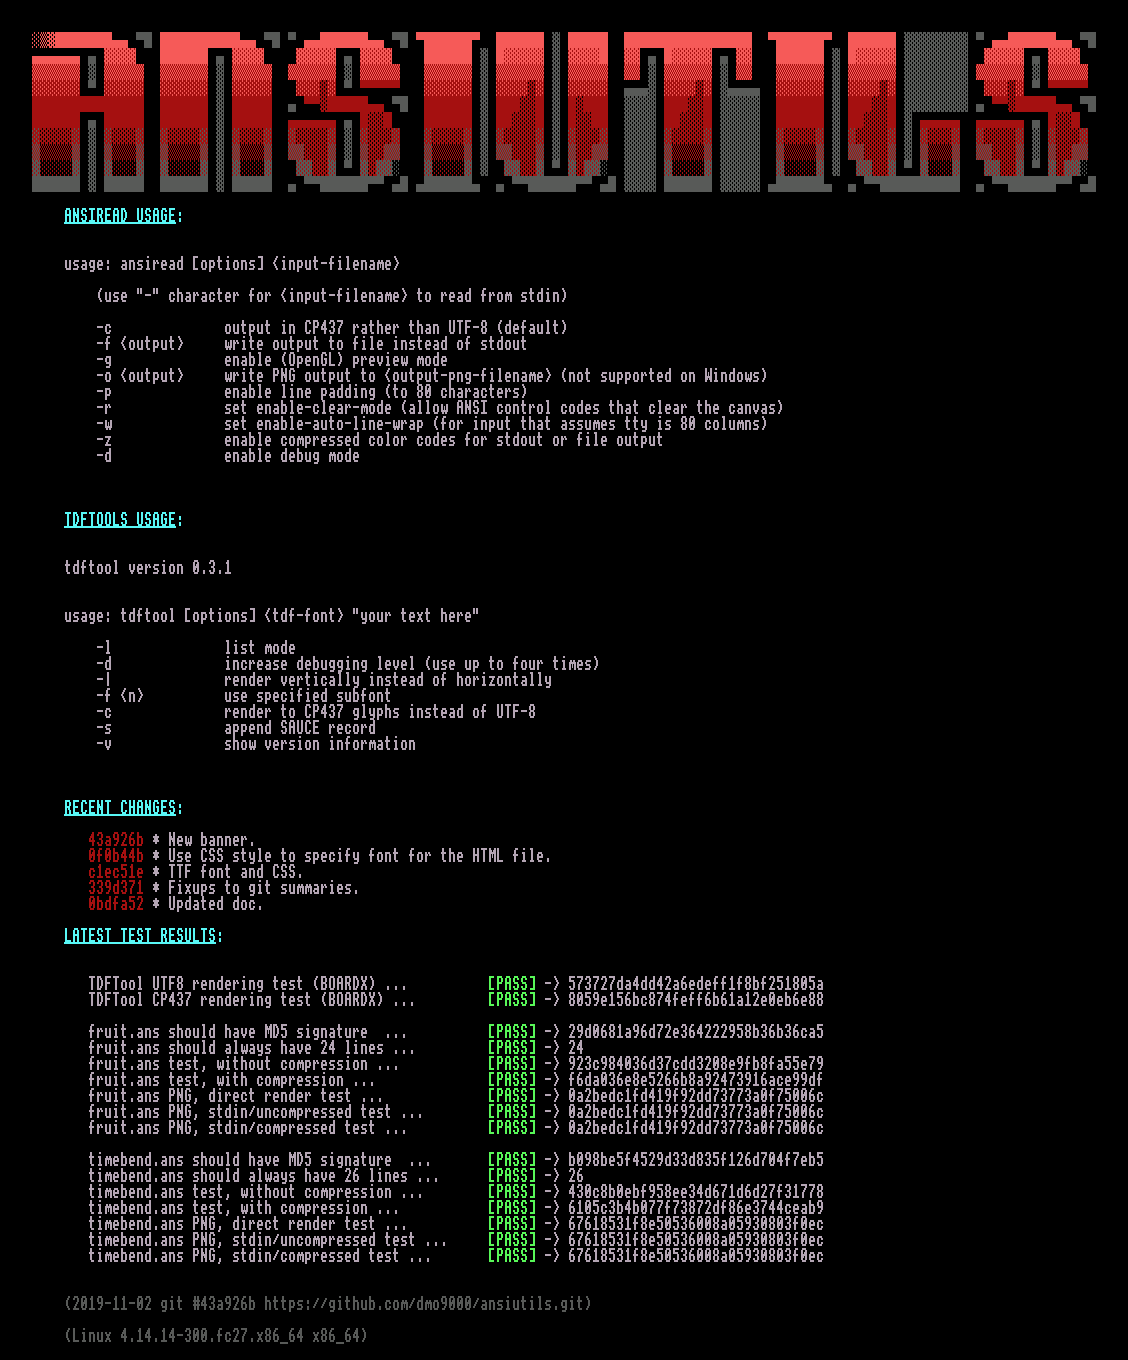
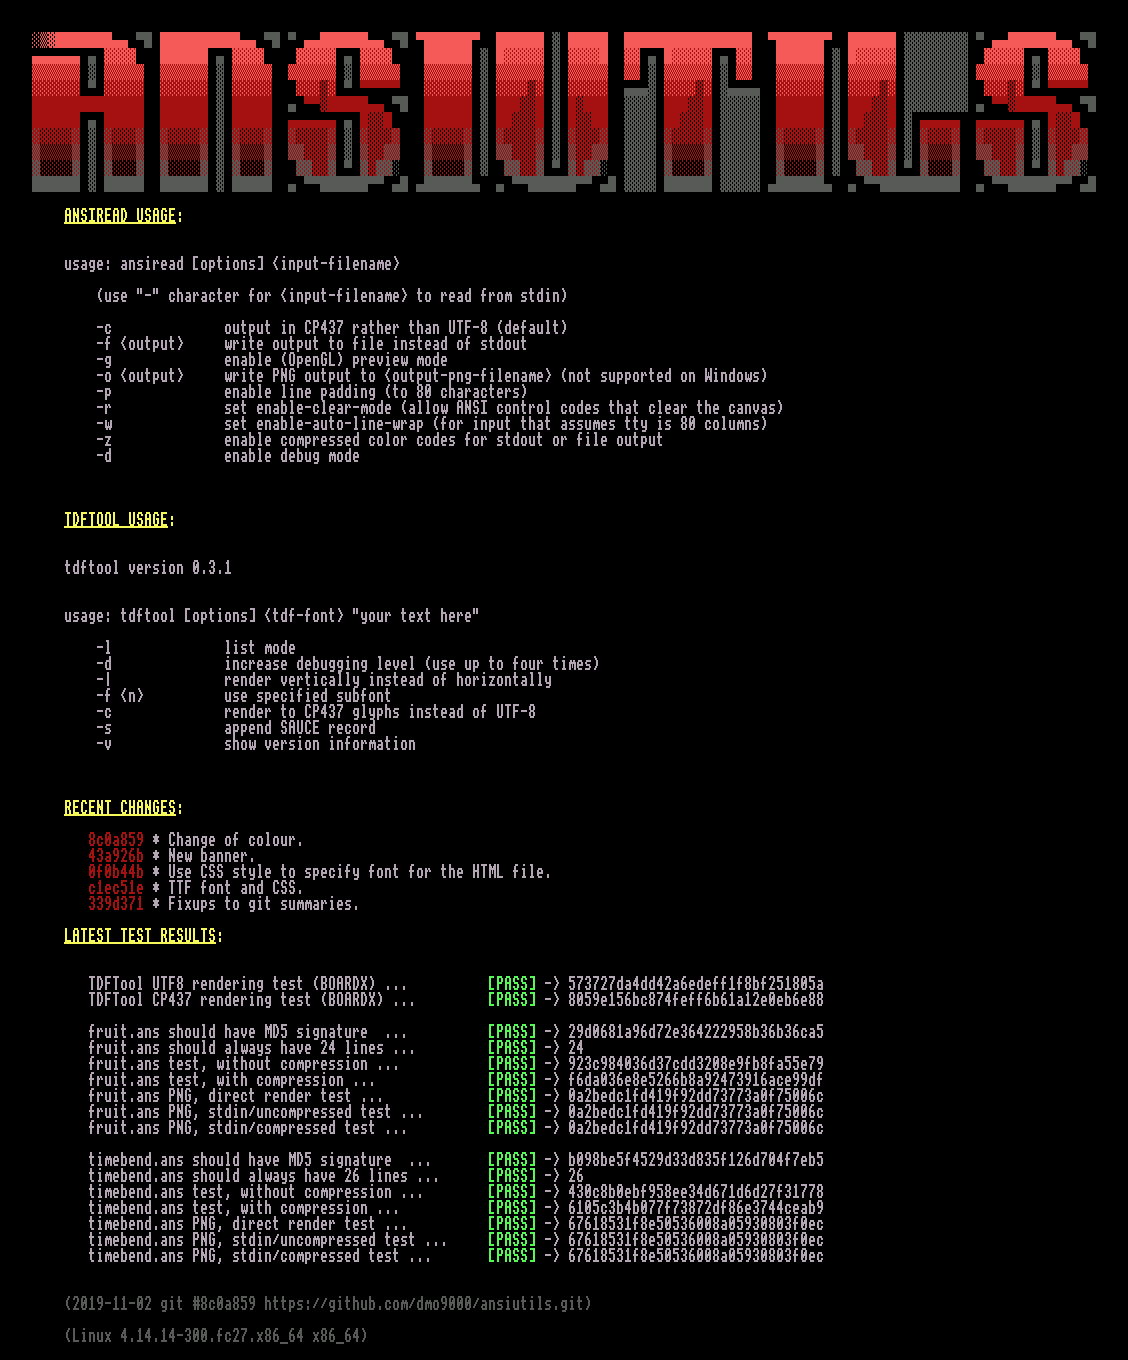
I think it pops now.

Changed region(s): [[0.0621, 0.5868, 0.4965, 0.7103], [0.0621, 0.3706, 0.1551, 0.4015], [0.0621, 0.1544, 0.1551, 0.1853]]

diff --git a/ansiutils.html b/ansiutils.html
@@ -22,7 +22,7 @@
     <span style="color:dimgray;background-color:red;"></span><span style="font-weight:bold;color:dimgray;background-color:red;">▓</span><span style="font-weight:bold;color:red;background-color:black;"></span><span style="color:red;background-color:black;">░░░░</span><span style="color:dimgray;background-color:red;"></span><span style="font-weight:bold;color:dimgray;background-color:red;">▓</span><span style="font-weight:bold;color:red;background-color:black;"></span><span style="color:red;background-color:black;"> </span><span style="color:dimgray;background-color:black;"></span><span style="font-weight:bold;color:dimgray;background-color:black;">▓</span><span style="font-weight:bold;color:red;background-color:black;"></span><span style="color:red;background-color:black;"> </span><span style="color:dimgray;background-color:red;"></span><span style="font-weight:bold;color:dimgray;background-color:red;">▓</span><span style="font-weight:bold;color:red;background-color:black;"></span><span style="color:red;background-color:black;">░░░</span><span style="color:dimgray;background-color:red;"></span><span style="font-weight:bold;color:dimgray;background-color:red;">▓</span><span style="font-weight:bold;color:white;background-color:black;"></span><span style="color:white;background-color:black;">  </span><span style="color:dimgray;background-color:red;"></span><span style="font-weight:bold;color:dimgray;background-color:red;">▓</span><span style="font-weight:bold;color:red;background-color:black;"></span><span style="color:red;background-color:black;">░░░░</span><span style="color:dimgray;background-color:red;"></span><span style="font-weight:bold;color:dimgray;background-color:red;">▓</span><span style="font-weight:bold;color:red;background-color:black;"></span><span style="color:red;background-color:black;"> </span><span style="color:dimgray;background-color:black;"></span><span style="font-weight:bold;color:dimgray;background-color:black;">▓</span><span style="font-weight:bold;color:red;background-color:black;"></span><span style="color:red;background-color:black;"> </span><span style="color:dimgray;background-color:red;"></span><span style="font-weight:bold;color:dimgray;background-color:red;">▓</span><span style="font-weight:bold;color:red;background-color:black;"></span><span style="color:red;background-color:black;">░░░</span><span style="color:dimgray;background-color:red;"></span><span style="font-weight:bold;color:dimgray;background-color:red;">▓</span><span style="font-weight:bold;color:white;background-color:black;"></span><span style="color:white;background-color:black;">  </span><span style="color:red;background-color:black;"> </span><span style="color:dimgray;background-color:red;"></span><span style="font-weight:bold;color:dimgray;background-color:red;">▓▓</span><span style="font-weight:bold;color:red;background-color:black;"></span><span style="color:red;background-color:black;">▓▓</span><span style="color:dimgray;background-color:red;"></span><span style="font-weight:bold;color:dimgray;background-color:red;">▓</span><span style="font-weight:bold;color:red;background-color:black;"></span><span style="color:red;background-color:black;"> </span><span style="color:dimgray;background-color:black;"></span><span style="font-weight:bold;color:dimgray;background-color:black;">▀</span><span style="font-weight:bold;color:red;background-color:black;"></span><span style="color:red;background-color:black;"> </span><span style="color:dimgray;background-color:red;"></span><span style="font-weight:bold;color:dimgray;background-color:red;">▓</span><span style="font-weight:bold;color:red;background-color:black;"></span><span style="color:red;background-color:black;">▓</span><span style="color:dimgray;background-color:red;"></span><span style="font-weight:bold;color:dimgray;background-color:red;">▓▓</span><span style="font-weight:bold;color:dimgray;background-color:black;">░</span><span style="font-weight:bold;color:white;background-color:black;"></span><span style="color:white;background-color:black;">  </span><span style="color:red;background-color:black;"> </span><span style="color:dimgray;background-color:red;"></span><span style="font-weight:bold;color:dimgray;background-color:red;">▓</span><span style="font-weight:bold;color:red;background-color:black;"></span><span style="color:red;background-color:black;">░░░░</span><span style="color:dimgray;background-color:red;"></span><span style="font-weight:bold;color:dimgray;background-color:red;">▓</span><span style="font-weight:bold;color:red;background-color:black;"></span><span style="color:red;background-color:black;"> </span><span style="color:dimgray;background-color:black;"></span><span style="font-weight:bold;color:dimgray;background-color:black;">▓</span><span style="font-weight:bold;color:white;background-color:black;"></span><span style="color:white;background-color:black;"> </span><span style="color:red;background-color:black;"> </span><span style="color:dimgray;background-color:red;"></span><span style="font-weight:bold;color:dimgray;background-color:red;">▓▓</span><span style="font-weight:bold;color:red;background-color:black;"></span><span style="color:red;background-color:black;">▓▓</span><span style="color:dimgray;background-color:red;"></span><span style="font-weight:bold;color:dimgray;background-color:red;">▓</span><span style="font-weight:bold;color:red;background-color:black;"></span><span style="color:red;background-color:black;"> </span><span style="color:dimgray;background-color:black;"></span><span style="font-weight:bold;color:dimgray;background-color:black;">▀</span><span style="font-weight:bold;color:red;background-color:black;"></span><span style="color:red;background-color:black;"> </span><span style="color:dimgray;background-color:red;"></span><span style="font-weight:bold;color:dimgray;background-color:red;">▓</span><span style="font-weight:bold;color:red;background-color:black;"></span><span style="color:red;background-color:black;">▓</span><span style="color:dimgray;background-color:red;"></span><span style="font-weight:bold;color:dimgray;background-color:red;">▓▓</span><span style="font-weight:bold;color:dimgray;background-color:black;">░</span><span style="font-weight:bold;color:white;background-color:black;"></span><span style="color:white;background-color:black;">  </span><span style="color:dimgray;background-color:black;"></span><span style="font-weight:bold;color:dimgray;background-color:black;">▓▓▓▓</span><span style="font-weight:bold;color:red;background-color:black;"></span><span style="color:red;background-color:black;"> </span><span style="color:dimgray;background-color:red;"></span><span style="font-weight:bold;color:dimgray;background-color:red;">▓</span><span style="font-weight:bold;color:red;background-color:black;"></span><span style="color:red;background-color:black;">░░░░</span><span style="color:dimgray;background-color:red;"></span><span style="font-weight:bold;color:dimgray;background-color:red;">▓</span><span style="font-weight:bold;color:red;background-color:black;"></span><span style="color:red;background-color:black;"> </span><span style="color:dimgray;background-color:black;"></span><span style="font-weight:bold;color:dimgray;background-color:black;">▓▓▓▓▓</span><span style="font-weight:bold;color:white;background-color:black;"></span><span style="color:white;background-color:black;"> </span><span style="color:red;background-color:black;"> </span><span style="color:dimgray;background-color:red;"></span><span style="font-weight:bold;color:dimgray;background-color:red;">▓</span><span style="font-weight:bold;color:red;background-color:black;"></span><span style="color:red;background-color:black;">░░░░</span><span style="color:dimgray;background-color:red;"></span><span style="font-weight:bold;color:dimgray;background-color:red;">▓</span><span style="font-weight:bold;color:red;background-color:black;"></span><span style="color:red;background-color:black;"> </span><span style="color:dimgray;background-color:black;"></span><span style="font-weight:bold;color:dimgray;background-color:black;">▓</span><span style="font-weight:bold;color:white;background-color:black;"></span><span style="color:white;background-color:black;"> </span><span style="color:red;background-color:black;"> </span><span style="color:dimgray;background-color:red;"></span><span style="font-weight:bold;color:dimgray;background-color:red;">▓▓</span><span style="font-weight:bold;color:red;background-color:black;"></span><span style="color:red;background-color:black;">▓▓</span><span style="color:dimgray;background-color:red;"></span><span style="font-weight:bold;color:dimgray;background-color:red;">▓</span><span style="font-weight:bold;color:red;background-color:black;"></span><span style="color:red;background-color:black;"> </span><span style="color:dimgray;background-color:black;"></span><span style="font-weight:bold;color:dimgray;background-color:black;">▀</span><span style="font-weight:bold;color:red;background-color:black;"></span><span style="color:red;background-color:black;"> </span><span style="color:dimgray;background-color:red;"></span><span style="font-weight:bold;color:dimgray;background-color:red;">▓</span><span style="font-weight:bold;color:red;background-color:black;"></span><span style="color:red;background-color:black;">░░░</span><span style="color:dimgray;background-color:red;"></span><span style="font-weight:bold;color:dimgray;background-color:red;">▓</span><span style="font-weight:bold;color:white;background-color:black;"></span><span style="color:white;background-color:black;">  </span><span style="color:red;background-color:black;"> </span><span style="color:dimgray;background-color:red;"></span><span style="font-weight:bold;color:dimgray;background-color:red;">▓▓</span><span style="font-weight:bold;color:red;background-color:black;"></span><span style="color:red;background-color:black;">▓▓</span><span style="color:dimgray;background-color:red;"></span><span style="font-weight:bold;color:dimgray;background-color:red;">▓</span><span style="font-weight:bold;color:red;background-color:black;"></span><span style="color:red;background-color:black;"> </span><span style="color:dimgray;background-color:black;"></span><span style="font-weight:bold;color:dimgray;background-color:black;">▀</span><span style="font-weight:bold;color:red;background-color:black;"></span><span style="color:red;background-color:black;"> </span><span style="color:dimgray;background-color:red;"></span><span style="font-weight:bold;color:dimgray;background-color:red;">▓</span><span style="font-weight:bold;color:red;background-color:black;"></span><span style="color:red;background-color:black;">▓</span><span style="color:dimgray;background-color:red;"></span><span style="font-weight:bold;color:dimgray;background-color:red;">▓▓</span><span style="font-weight:bold;color:dimgray;background-color:black;">░</span><span style="font-weight:bold;color:white;background-color:black;"></span><span style="color:white;background-color:black;">  </span>   
     <span style="color:dimgray;background-color:black;"></span><span style="font-weight:bold;color:dimgray;background-color:black;">██████</span><span style="font-weight:bold;color:red;background-color:black;"></span><span style="color:red;background-color:black;"> </span><span style="color:dimgray;background-color:black;"></span><span style="font-weight:bold;color:dimgray;background-color:black;">▓</span><span style="font-weight:bold;color:red;background-color:black;"></span><span style="color:red;background-color:black;"> </span><span style="color:dimgray;background-color:black;"></span><span style="font-weight:bold;color:dimgray;background-color:black;">█████</span><span style="font-weight:bold;color:white;background-color:black;"></span><span style="color:white;background-color:black;">  </span><span style="color:dimgray;background-color:black;"></span><span style="font-weight:bold;color:dimgray;background-color:black;">██████</span><span style="font-weight:bold;color:red;background-color:black;"></span><span style="color:red;background-color:black;"> </span><span style="color:dimgray;background-color:black;"></span><span style="font-weight:bold;color:dimgray;background-color:black;">▓</span><span style="font-weight:bold;color:red;background-color:black;"></span><span style="color:red;background-color:black;"> </span><span style="color:dimgray;background-color:black;"></span><span style="font-weight:bold;color:dimgray;background-color:black;">█████</span><span style="font-weight:bold;color:white;background-color:black;"></span><span style="color:white;background-color:black;">  </span><span style="color:dimgray;background-color:black;"></span><span style="font-weight:bold;color:dimgray;background-color:black;">▄</span><span style="font-weight:bold;color:red;background-color:black;"></span><span style="color:red;background-color:black;"> </span><span style="color:dimgray;background-color:black;"></span><span style="font-weight:bold;color:dimgray;background-color:black;">▀▀██████▀▀</span><span style="font-weight:bold;color:red;background-color:black;"></span><span style="color:red;background-color:black;"> </span><span style="color:dimgray;background-color:black;"></span><span style="font-weight:bold;color:dimgray;background-color:black;">▄█</span><span style="font-weight:bold;color:white;background-color:black;"></span><span style="color:white;background-color:black;"> </span><span style="color:dimgray;background-color:black;"></span><span style="font-weight:bold;color:dimgray;background-color:black;">▄██████▄</span><span style="font-weight:bold;color:white;background-color:black;"></span><span style="color:white;background-color:black;">  </span><span style="color:dimgray;background-color:black;"></span><span style="font-weight:bold;color:dimgray;background-color:black;">▄</span><span style="font-weight:bold;color:red;background-color:black;"></span><span style="color:red;background-color:black;"> </span><span style="color:dimgray;background-color:black;"></span><span style="font-weight:bold;color:dimgray;background-color:black;">▀▀██████▀▀</span><span style="font-weight:bold;color:red;background-color:black;"></span><span style="color:red;background-color:black;"> </span><span style="color:dimgray;background-color:black;"></span><span style="font-weight:bold;color:dimgray;background-color:black;">▄█</span><span style="font-weight:bold;color:white;background-color:black;"></span><span style="color:white;background-color:black;"> </span><span style="color:dimgray;background-color:black;"></span><span style="font-weight:bold;color:dimgray;background-color:black;">▓▓▓▓</span><span style="font-weight:bold;color:red;background-color:black;"></span><span style="color:red;background-color:black;"> </span><span style="color:dimgray;background-color:black;"></span><span style="font-weight:bold;color:dimgray;background-color:black;">██████</span><span style="font-weight:bold;color:red;background-color:black;"></span><span style="color:red;background-color:black;"> </span><span style="color:dimgray;background-color:black;"></span><span style="font-weight:bold;color:dimgray;background-color:black;">▓▓▓▓▓</span><span style="font-weight:bold;color:white;background-color:black;"></span><span style="color:white;background-color:black;"> </span><span style="color:dimgray;background-color:black;"></span><span style="font-weight:bold;color:dimgray;background-color:black;">▄██████▄</span><span style="font-weight:bold;color:white;background-color:black;"></span><span style="color:white;background-color:black;">  </span><span style="color:dimgray;background-color:black;"></span><span style="font-weight:bold;color:dimgray;background-color:black;">▄</span><span style="font-weight:bold;color:red;background-color:black;"></span><span style="color:red;background-color:black;"> </span><span style="color:dimgray;background-color:black;"></span><span style="font-weight:bold;color:dimgray;background-color:black;">▀▀██████████</span><span style="font-weight:bold;color:white;background-color:black;"></span><span style="color:white;background-color:black;">  </span><span style="color:dimgray;background-color:black;"></span><span style="font-weight:bold;color:dimgray;background-color:black;">▄</span><span style="font-weight:bold;color:red;background-color:black;"></span><span style="color:red;background-color:black;"> </span><span style="color:dimgray;background-color:black;"></span><span style="font-weight:bold;color:dimgray;background-color:black;">▀▀██████▀▀</span><span style="font-weight:bold;color:red;background-color:black;"></span><span style="color:red;background-color:black;"> </span><span style="color:dimgray;background-color:black;"></span><span style="font-weight:bold;color:dimgray;background-color:black;">▄█</span><span style="font-weight:bold;color:white;background-color:black;"></span><span style="color:white;background-color:black;"> </span>   
     <span style="color:white;background-color:black;">                                                                                                                                      </span>   
-	<span style="color:aqua;"></span><span style="text-decoration:underline;color:aqua;"></span><span style="text-decoration:underline;font-weight:bold;color:aqua;">ANSIREAD USAGE</span><span style="font-weight:bold;color:aqua;">:</span><span style="color:aqua;"></span>
+	<span style="color:yellow;"></span><span style="text-decoration:underline;color:yellow;"></span><span style="text-decoration:underline;font-weight:bold;color:yellow;">ANSIREAD USAGE</span><span style="font-weight:bold;color:yellow;">:</span><span style="color:yellow;"></span>
 
 <span style="color:white;background-color:black;">                                                                                                  </span>
 <span style="color:white;background-color:black;">        usage: ansiread [options] &lt;input-filename&gt;</span>
@@ -41,7 +41,7 @@
 <span style="color:white;background-color:black;">        </span>
 <span style="color:white;background-color:black;">        </span>
 
-	<span style="color:aqua;"></span><span style="text-decoration:underline;color:aqua;"></span><span style="text-decoration:underline;font-weight:bold;color:aqua;">TDFTOOLS USAGE</span><span style="font-weight:bold;color:aqua;">:</span><span style="color:aqua;"></span>
+	<span style="color:yellow;"></span><span style="text-decoration:underline;color:yellow;"></span><span style="text-decoration:underline;font-weight:bold;color:yellow;">TDFTOOL USAGE</span><span style="font-weight:bold;color:yellow;">:</span><span style="color:yellow;"></span>
 
 <span style="color:white;background-color:black;">        </span>
 <span style="color:white;background-color:black;">        tdftool version 0.3.1</span>
@@ -59,15 +59,15 @@
 <span style="color:white;background-color:black;">        </span>
 <span style="color:white;background-color:black;">        </span>
 
-	<span style="color:aqua;"></span><span style="text-decoration:underline;color:aqua;"></span><span style="text-decoration:underline;font-weight:bold;color:aqua;">RECENT CHANGES</span><span style="font-weight:bold;color:aqua;">:</span><span style="color:aqua;"></span>
+	<span style="color:yellow;"></span><span style="text-decoration:underline;color:yellow;"></span><span style="text-decoration:underline;font-weight:bold;color:yellow;">RECENT CHANGES</span><span style="font-weight:bold;color:yellow;">:</span><span style="color:yellow;"></span>
 
+<span style="color:white;background-color:black;">           </span><span style="color:red;background-color:black;">8c0a859</span><span style="color:white;background-color:black;"> * Change of colour.</span>
 <span style="color:white;background-color:black;">           </span><span style="color:red;background-color:black;">43a926b</span><span style="color:white;background-color:black;"> * New banner.</span>
 <span style="color:white;background-color:black;">           </span><span style="color:red;background-color:black;">0f0b44b</span><span style="color:white;background-color:black;"> * Use CSS style to specify font for the HTML file.</span>
 <span style="color:white;background-color:black;">           </span><span style="color:red;background-color:black;">c1ec51e</span><span style="color:white;background-color:black;"> * TTF font and CSS.</span>
 <span style="color:white;background-color:black;">           </span><span style="color:red;background-color:black;">339d371</span><span style="color:white;background-color:black;"> * Fixups to git summaries.</span>
-<span style="color:white;background-color:black;">           </span><span style="color:red;background-color:black;">0bdfa52</span><span style="color:white;background-color:black;"> * Updated doc.</span>
 
-	<span style="color:aqua;"></span><span style="text-decoration:underline;color:aqua;"></span><span style="text-decoration:underline;font-weight:bold;color:aqua;">LATEST TEST RESULTS</span><span style="font-weight:bold;color:aqua;">:</span><span style="color:aqua;"></span>
+	<span style="color:yellow;"></span><span style="text-decoration:underline;color:yellow;"></span><span style="text-decoration:underline;font-weight:bold;color:yellow;">LATEST TEST RESULTS</span><span style="font-weight:bold;color:yellow;">:</span><span style="color:yellow;"></span>
 
 <span style="color:white;background-color:black;">           </span>
 <span style="color:white;background-color:black;">           TDFTool UTF8 rendering test (BOARDX) ...          </span><span style="color:lime;background-color:black;"></span><span style="font-weight:bold;color:lime;background-color:black;">[PASS]</span><span style="font-weight:bold;color:white;background-color:black;"></span><span style="color:white;background-color:black;"> -&gt; 573727da4dd42a6edeff1f8bf251805a</span>
@@ -90,7 +90,7 @@
 <span style="color:white;background-color:black;">           timebend.ans PNG, stdin/compressed test ...       </span><span style="color:lime;background-color:black;"></span><span style="font-weight:bold;color:lime;background-color:black;">[PASS]</span><span style="font-weight:bold;color:white;background-color:black;"></span><span style="color:white;background-color:black;"> -&gt; 67618531f8e50536008a05930803f0ec </span>
 <span style="color:white;background-color:black;">           </span>
 
-	<span style="color:dimgray;"></span><span style="font-weight:bold;color:dimgray;">(2019-11-02 git #43a926b https://github.com/dmo9000/ansiutils.git)</span><span style="color:dimgray;"></span>
+	<span style="color:dimgray;"></span><span style="font-weight:bold;color:dimgray;">(2019-11-02 git #8c0a859 https://github.com/dmo9000/ansiutils.git)</span><span style="color:dimgray;"></span>
 
 	<span style="color:dimgray;"></span><span style="font-weight:bold;color:dimgray;">(Linux 4.14.14-300.fc27.x86_64 x86_64)</span><span style="color:dimgray;"></span>
                                                                                                               
